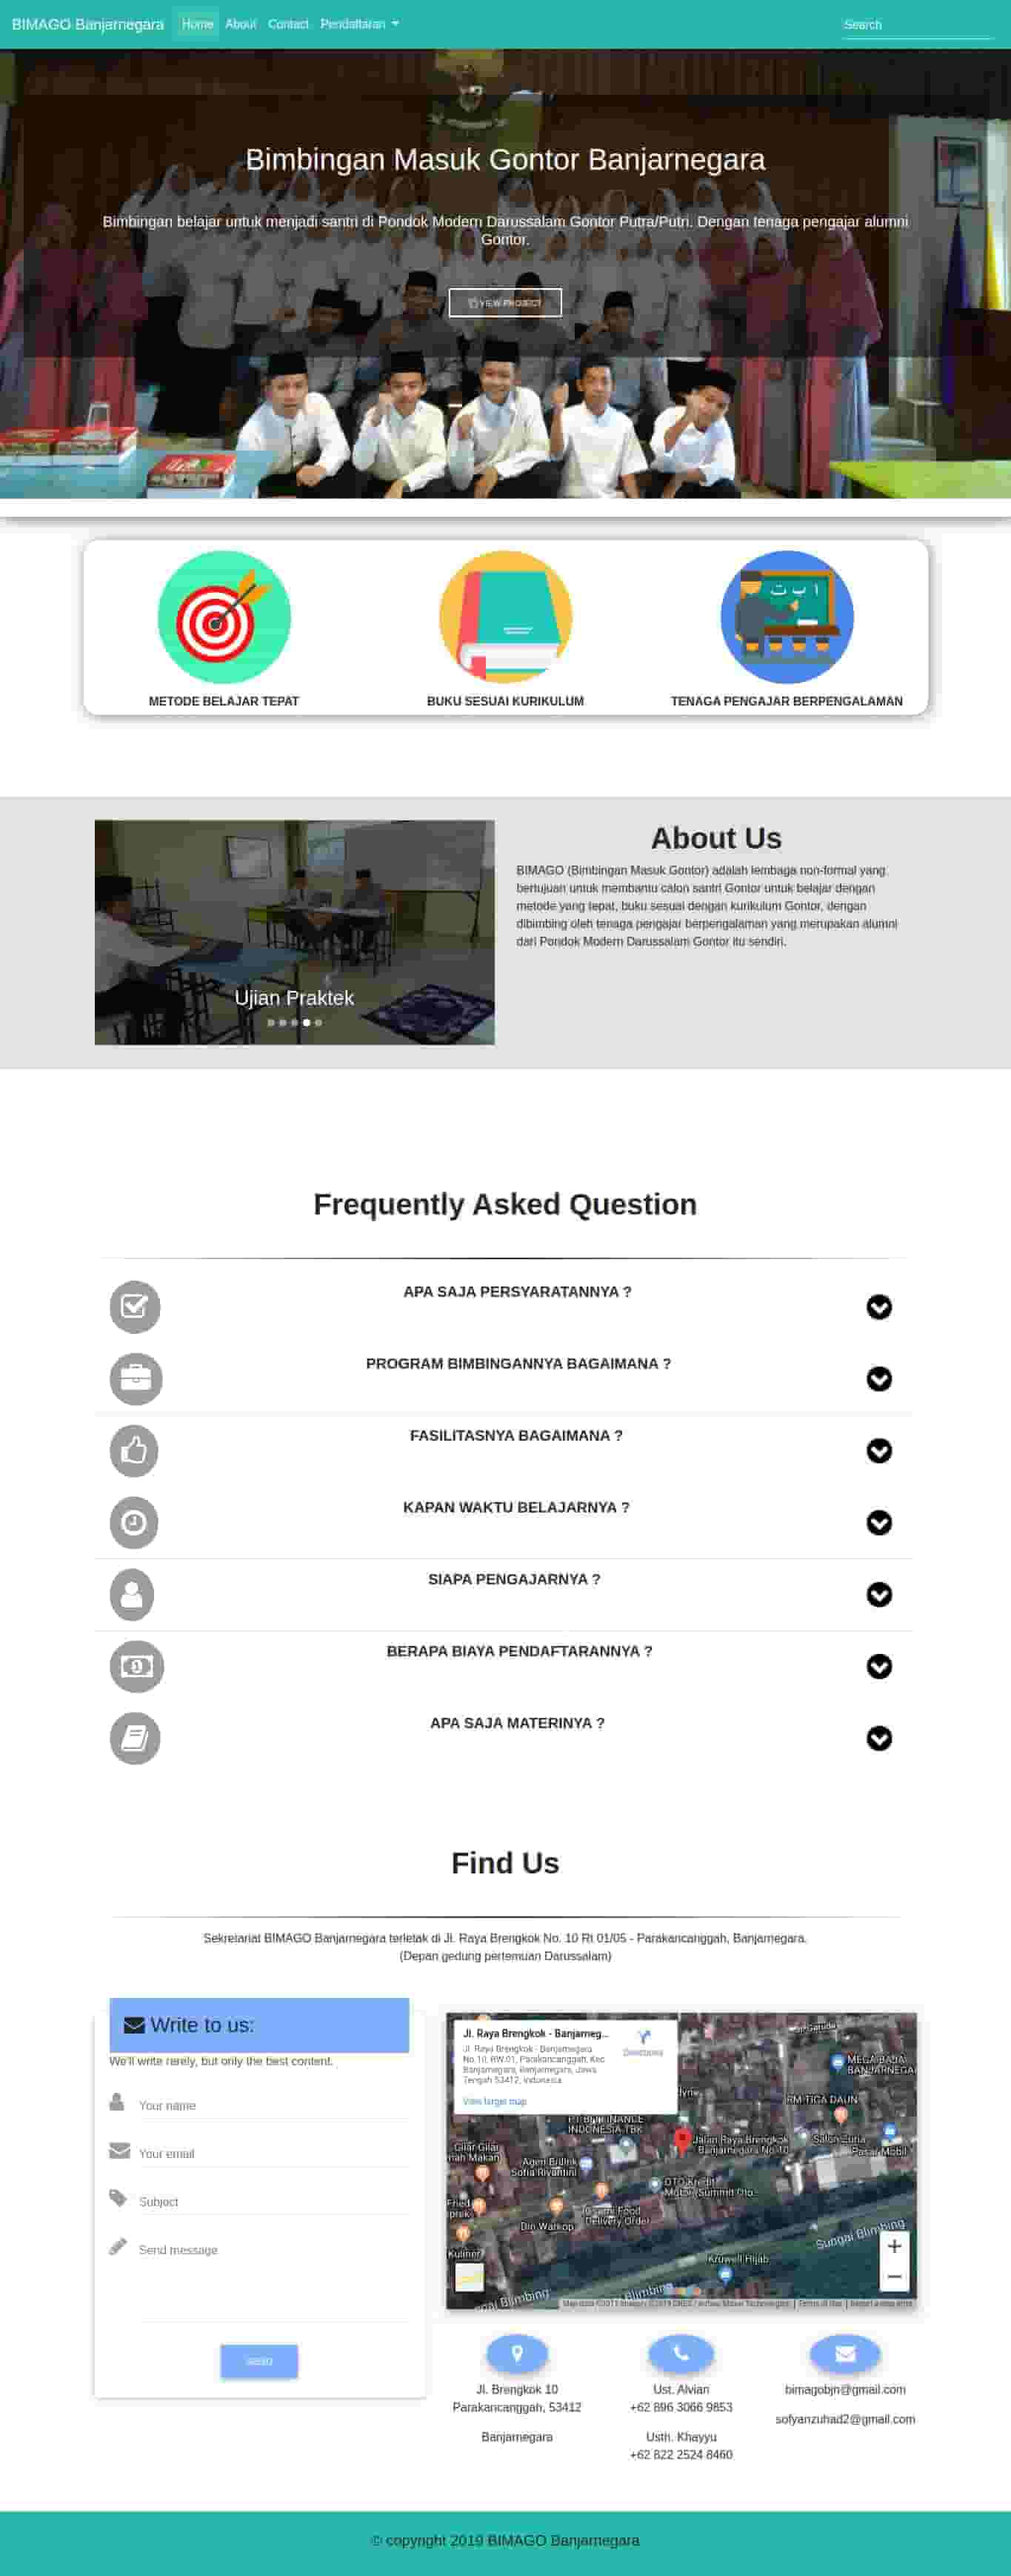
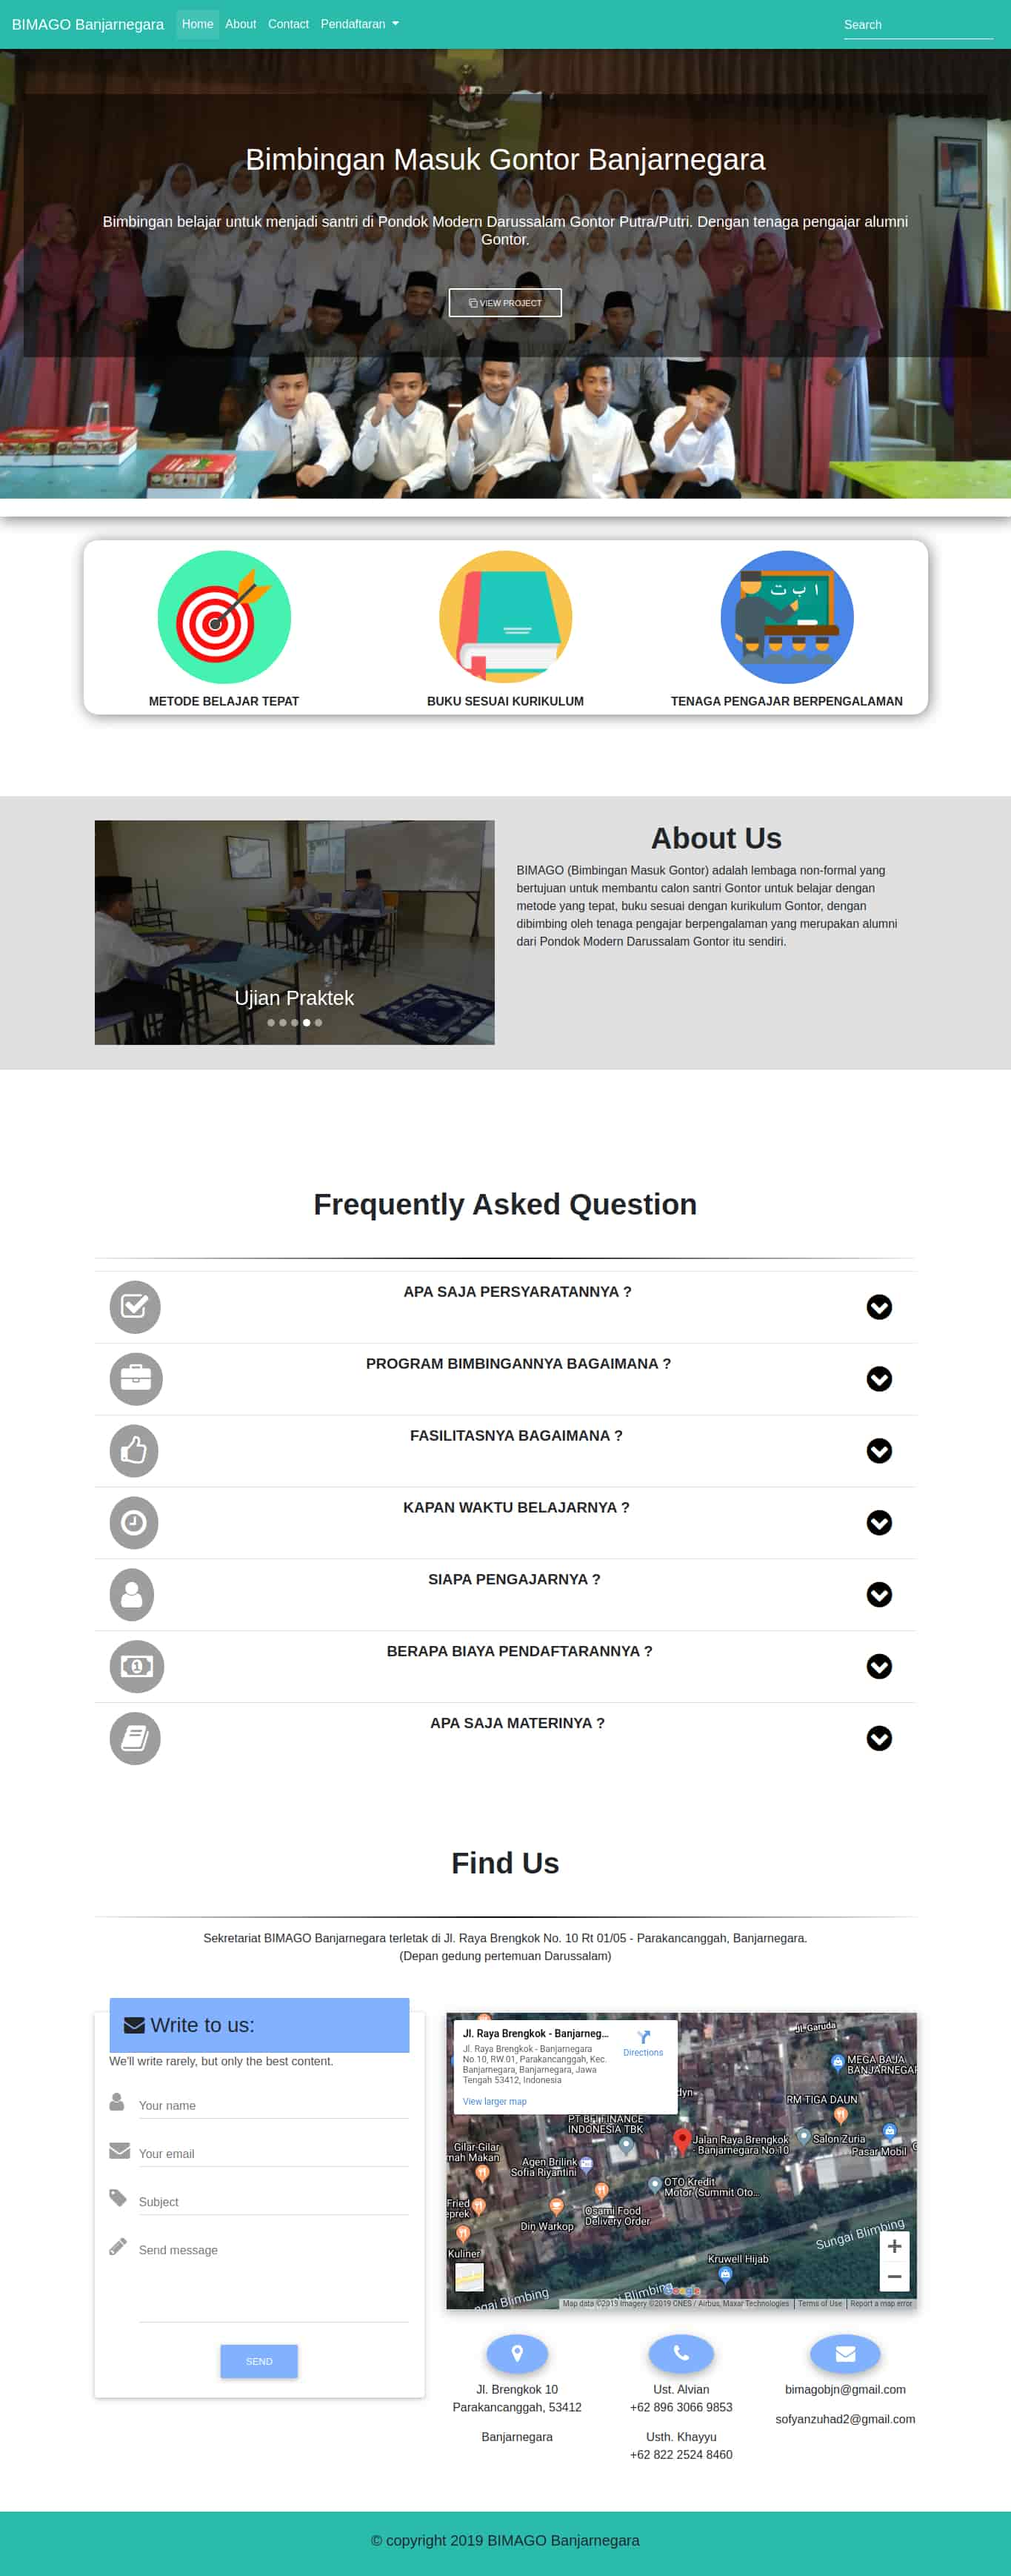
resize

diff --git a/index.html b/index.html
@@ -90,7 +90,7 @@
                 <p class="mx-5 mb-5 animated fadeIn">I'm A basic Back-end Developer, who start learning to be full stack developer. Never stop learning, cause nobody was born smart.
                 </p>
                 <a id="btn" href="#portfolio" onclick="openSlideUp(), closeSlideUp2()" class="btn btn-outline-white btn-md bg-none text-white font-weight-bold"><i class="fa fa-clone left"></i> View project</a>
-                <a id="btn1" href="#photography" onclick="openSlideUp2(), closeSlideUp()" class="btn btn-outline-white btn-md bg-none text-white font-weight-bold"><i class="fa fa-clone left"></i> View photography</a>
+                <!-- <a id="btn1" href="#photography" onclick="openSlideUp2(), closeSlideUp()" class="btn btn-outline-white btn-md bg-none text-white font-weight-bold"><i class="fa fa-clone left"></i> View photography</a> -->
             </div>
         </div>
     </div>
@@ -550,18 +550,12 @@
 
 </div>
 
-<div id="photography" class="slideUp2">
-    <a id="closebtn2" href="javascript:void(0)" class="closebtn mt-5" onclick="closeSlideUp2()">&times;</a>
+<!-- <div id="photography" class="slideUp2">
+    <a id="closebtn2" href="javascript:void(0)" class="closebtn mt-5" onclick="closeSlideUp2()">&times;</a> -->
     
     <!--Accordion wrapper-->
-    <div class="accordion md-accordion" id="accordionEx" role="tablist" aria-multiselectable="true">
+    <!-- <div class="accordion md-accordion" id="accordionEx" role="tablist" aria-multiselectable="true">
         <div class="container text-center text-white mt-5 mb-3" id="portofolio">
-			<div class="row mt-5">
-				<div class="col mt-5">
-					<h2>PHOTOGRAPHY</h2>
-					<hr>
-				</div>
-			</div>
 			<div class="row ">
 				<div class="col-sm-6 col-md-6 mb-2">
 					<div class="card bg-none">
@@ -614,8 +608,6 @@
 						</div>
 					</div>
 				</div>
-			<!-- </div>
-			<div class="row"> -->
 				<div class="col-sm-6 col-md-6 mb-2">
 					<div class="card">
 						<a href="#img-4">
@@ -670,7 +662,7 @@
 				</div>
 			</div>
 		</div>
-    </div>
+    </div> -->
 
 </div>
 
